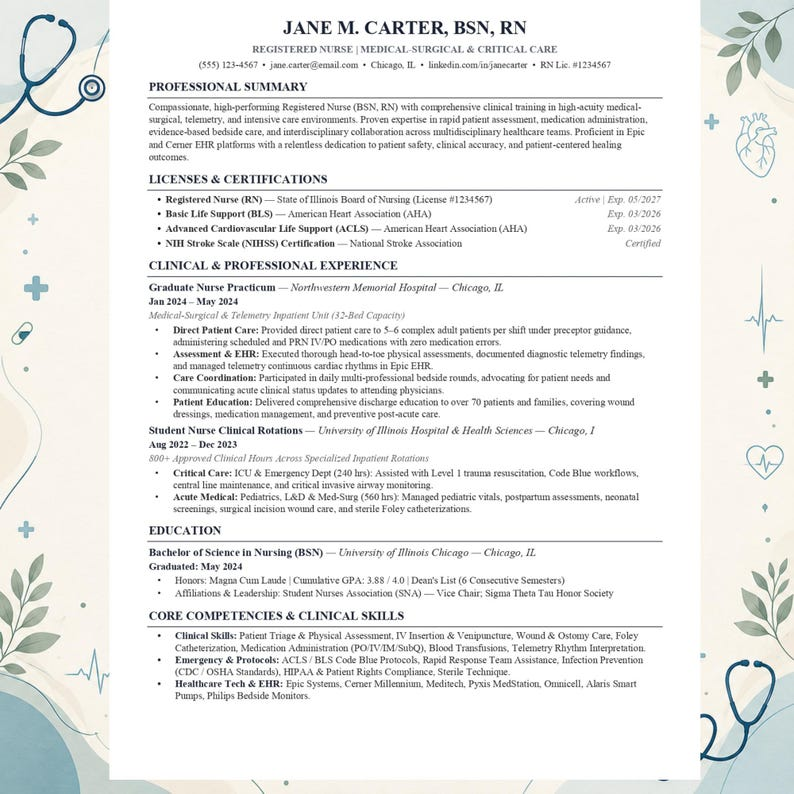
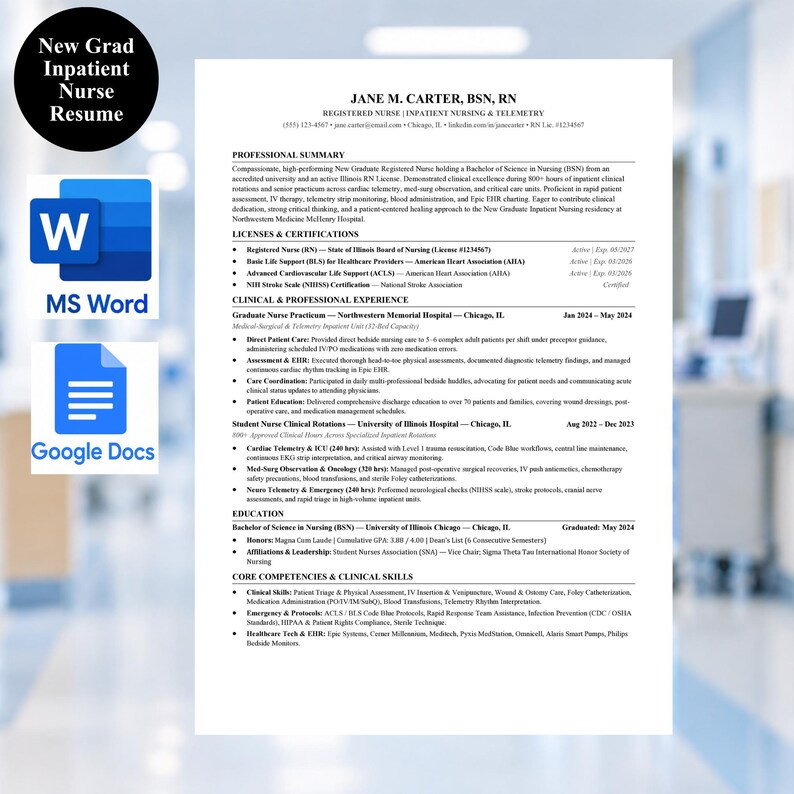
Link New Grad post to new listing 4608386392

diff --git a/job-new-grad-residency-hca-aurora.html b/job-new-grad-residency-hca-aurora.html
@@ -50,8 +50,8 @@
     <p>Recruiters decide fast — your resume has only seconds to impress. I have written 1,000+ resumes for real jobs, and I can write yours for this exact kind of role.</p>
     <p><a class="btn btn-orange" href="https://www.etsy.com/shop/HireSparkStudio" target="_blank" rel="noopener">Order a custom-written resume on Etsy &rarr;</a></p>
     <p>Or start right now with a ready template made for new grads:</p>
-    <p><a href="https://hiresparkstudio.etsy.com/listing/4586854850/new-grad-nurse-resume-template-ats" target="_blank" rel="noopener"><img class="template-preview" src="preview-new-grad.jpg" alt="New Grad Nurse Resume Template preview – ATS friendly RN resume"></a></p>
-    <p><a class="btn btn-dark" href="https://hiresparkstudio.etsy.com/listing/4586854850/new-grad-nurse-resume-template-ats" target="_blank" rel="noopener">Get the New Grad Nurse Resume Template &rarr;</a></p>
+    <p><a href="https://hiresparkstudio.etsy.com/listing/4608386392/new-grad-nurse-resume-template-word" target="_blank" rel="noopener"><img class="template-preview" src="preview-new-grad.jpg" alt="New Grad Nurse Resume Template Word preview – new graduate RN resume, cover letter and reference page"></a></p>
+    <p><a class="btn btn-dark" href="https://hiresparkstudio.etsy.com/listing/4608386392/new-grad-nurse-resume-template-word" target="_blank" rel="noopener">Get the New Grad Nurse Resume Template &rarr;</a></p>
     <p>Prefer to talk first? <a href="https://wa.me/923266294334" target="_blank" rel="noopener">Message me on WhatsApp</a>.</p>
   </div>
 
